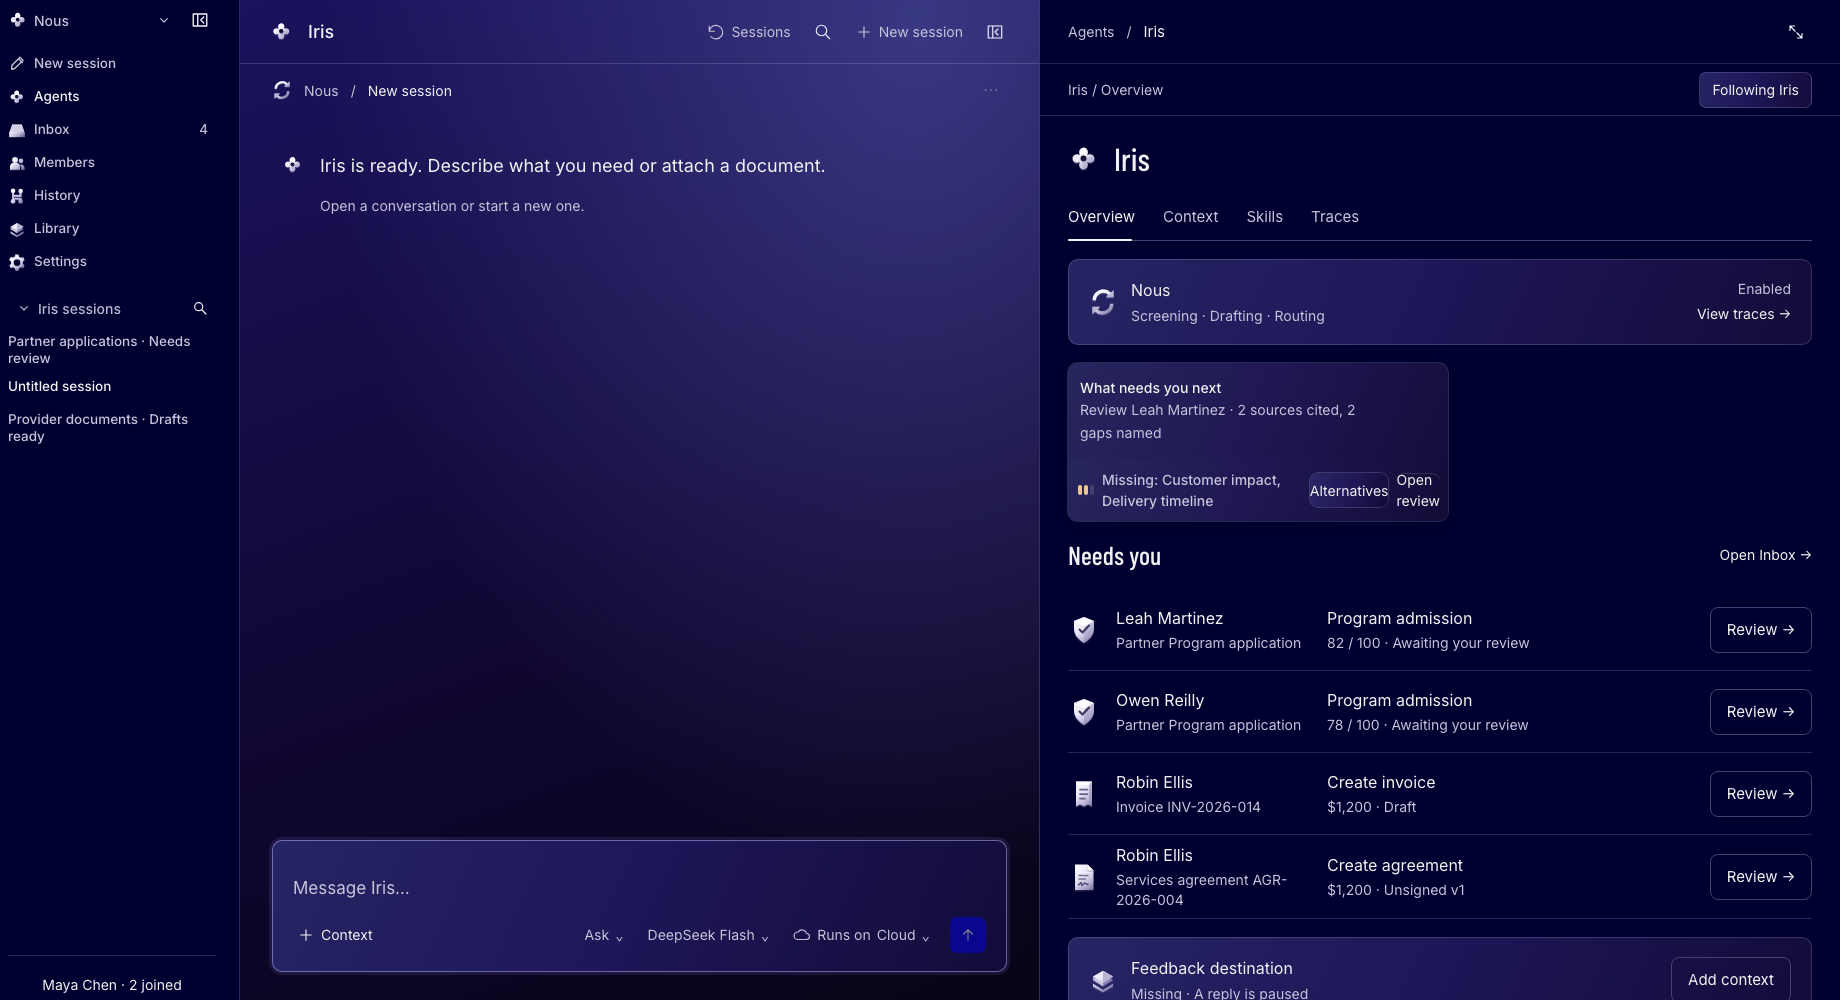
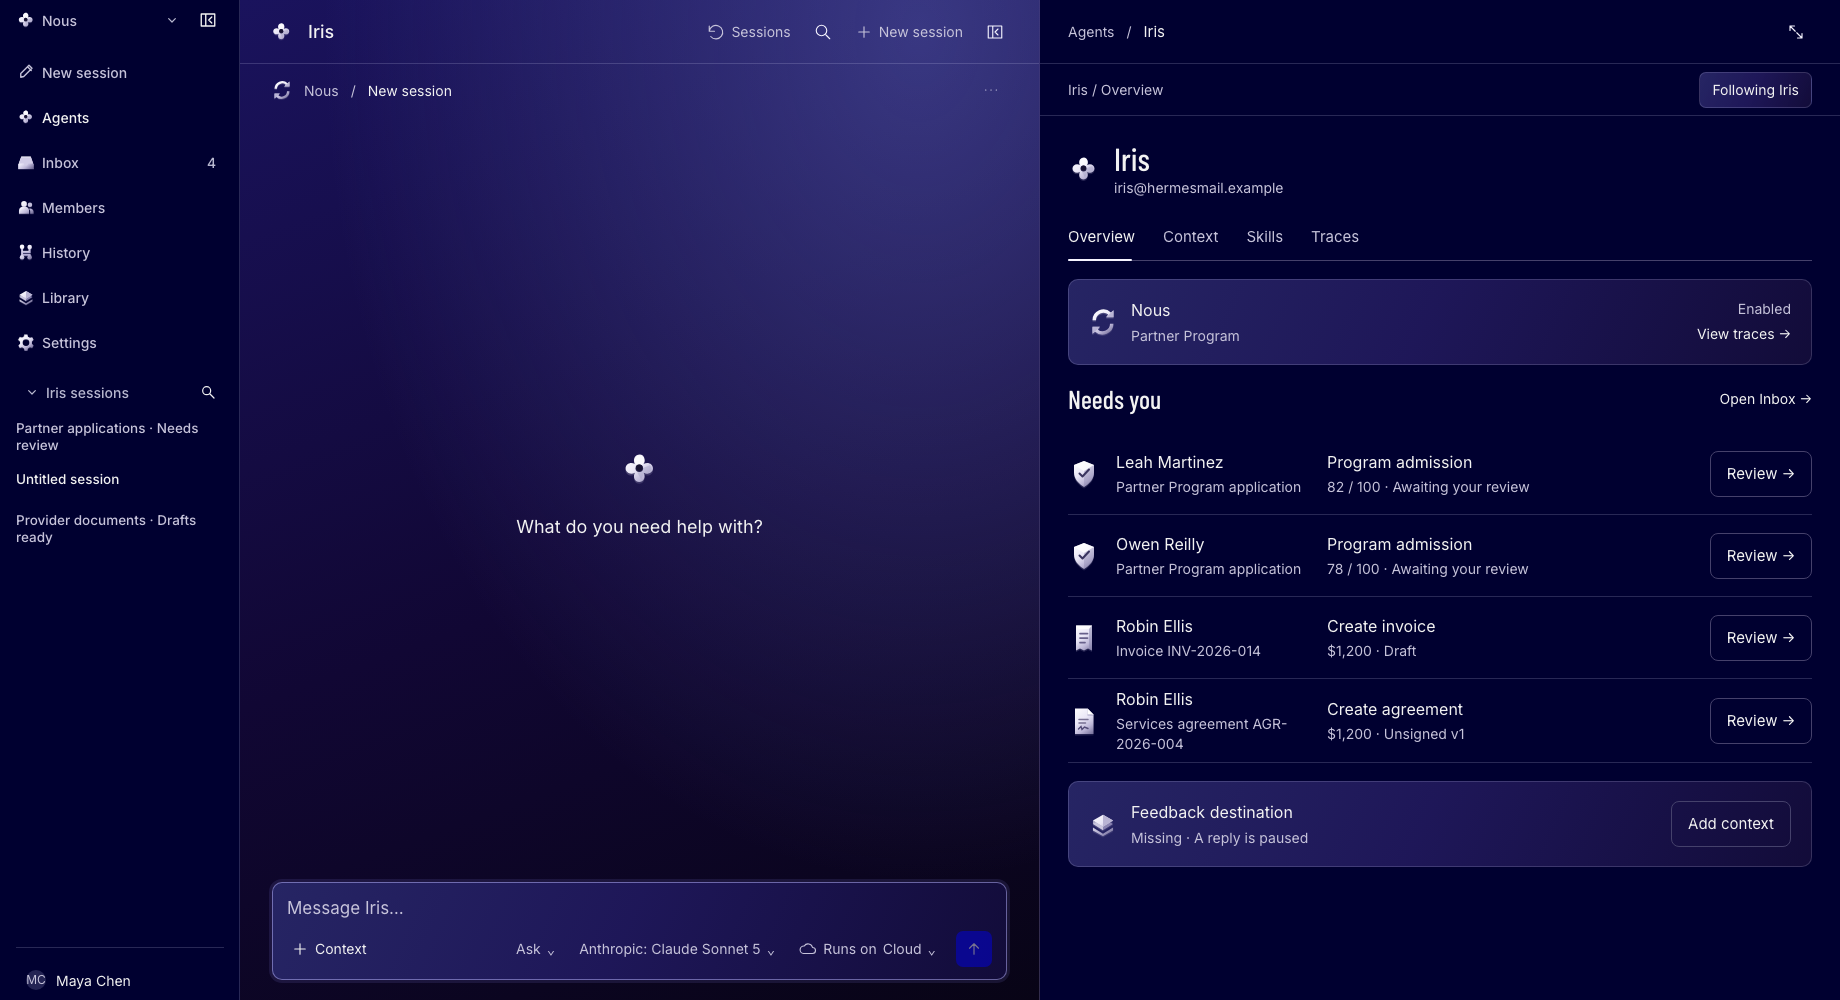
Polish and verify workspace navigation

diff --git a/apps/client/src/app/Sidebar.tsx b/apps/client/src/app/Sidebar.tsx
@@ -36,7 +36,8 @@ export function Sidebar() {
   const nav = useNav();
   const dispatch = useDispatch();
   const [menu, setMenu] = useState(false);
-  const meBtn = useRef<HTMLButtonElement>(null);
+  const accountBtn = useRef<HTMLElement>(null);
+  const accountMarker = useRef<HTMLSpanElement>(null);
   const sidebarRef = useRef<HTMLElement>(null);
   const go = (ref: Ref): void => {
     setMenu(false);
@@ -80,12 +81,26 @@ export function Sidebar() {
     return () => observer.disconnect();
   }, [dispatch, state.ui.navCollapsed]);
 
+  // SidebarNav owns the visible footer button, while this client owns the
+  // account menu. Use a marker inside the public footerIcon slot to recover
+  // that exact button as the popover anchor instead of rendering a second,
+  // hidden account button after a full-height sidebar.
+  useEffect(() => {
+    const button = accountMarker.current?.closest<HTMLButtonElement>('button') ?? null;
+    accountBtn.current = button;
+    if (!button) return;
+    button.setAttribute('aria-label', 'Your account');
+    button.setAttribute('aria-haspopup', 'dialog');
+    button.setAttribute('aria-expanded', String(menu));
+  }, [menu]);
+
   return (
     // `SidebarNav` renders its own <aside> with its own collapse control; this
     // wrapper is the grid cell. It clips during the shared width transition so
     // neither state can paint over the neighboring pane (decision C36).
     <aside ref={sidebarRef} className="sidebar hermes-ui" aria-label="Workspace navigation">
       <SidebarNav
+        className="workspace-sidebar-nav"
         fill
         workspace={{ key: state.workspace.id || 'workspace', name: state.workspace.name || 'Workspace', monogram: (state.workspace.name || 'W').slice(0, 1).toUpperCase() }}
         navItems={navItems}
@@ -96,14 +111,22 @@ export function Sidebar() {
         // workspace menu; a headcount pinned under your own avatar is a number
         // about other people in the one place that is about you (decision C47).
         footerLabel={state.user.name || 'You'}
-        footerIcon={<Avatar person={{ name: state.user.name || 'You' }} size={20} />}
+        footerIcon={
+          <span ref={accountMarker} className="account-trigger-marker" aria-hidden="true">
+            <Avatar person={{ name: state.user.name || 'You' }} size={20} />
+          </span>
+        }
         onNavigate={(key) => {
           const section = SECTIONS.find((item) => item.key === key);
           if (!section) return;
           nav(section.ref);
           if (key === 'inbox') dispatch({ type: 'nav/tab', key: 'inboxTab', value: 'needs-review' });
         }}
-        onPick={(id) => dispatch({ type: 'session/select', id })}
+        onPick={(id) => {
+          dispatch({ type: 'session/select', id });
+          dispatch({ type: 'iris/panel', panel: 'open' });
+          requestComposerFocus();
+        }}
         onNewChat={() => {
           // One control, three effects: reuse-or-create (the adapter's rule),
           // open the panel, and put the cursor in the composer. A New session
@@ -114,59 +137,57 @@ export function Sidebar() {
           void adapter.createSession();
         }}
         onWorkspaceAction={(action) => {
-          if (action === 'settings') go(SETTINGS('Organization'));
-          if (action === 'members') go(MEMBERS);
+          if (action === 'Switch workspace') window.location.assign('/');
+          if (action === 'Workspace settings') go(SETTINGS('Organization'));
+          if (action === 'Invite team members') go(MEMBERS);
         }}
-        onFooterClick={() => setMenu((open) => !open)}
+        onFooterClick={() => {
+          accountBtn.current = accountMarker.current?.closest<HTMLButtonElement>('button') ?? null;
+          setMenu((open) => !open);
+        }}
       />
-      <div className="profile" style={{ position: 'relative' }}>
-        <button ref={meBtn} type="button" className="profile-btn" aria-haspopup="dialog" aria-expanded={menu} aria-label="Your account" onClick={() => setMenu((open) => !open)}>
-          <Avatar person={{ name: state.user.name || 'You' }} />
-          <span className="profile-name">{state.user.name || 'You'}</span>
-        </button>
-        <Popover open={menu} onClose={() => setMenu(false)} anchorRef={meBtn} align="left" above width={280} label="Your account" portal className="menu account-menu">
-          <div className="row account-head">
-            <Avatar person={{ name: state.user.name }} size={36} />
-            <div className="col" style={{ gap: 2, minWidth: 0 }}>
-              <span className="p-title">{state.user.name || 'You'}</span>
-              <span className="p-meta">
-                {state.user.email || state.workspace.name} · {state.user.role === 'admin' ? 'Admin' : 'Member'}
-              </span>
-            </div>
-          </div>
-          <div className="divider" />
-          <MenuItem small icon="mail" onClick={() => go(SETTINGS('Notifications'))}>
-            Notification settings
-          </MenuItem>
-          <MenuItem small icon="key" onClick={() => go(SETTINGS('Provider keys'))}>
-            Provider keys
-          </MenuItem>
-          <MenuItem small icon="shield" onClick={() => go(SETTINGS('Data and privacy'))}>
-            Data and privacy
-          </MenuItem>
-          <div className="row account-toggle">
-            <span className="grow">Reduce motion</span>
-            <Toggle
-              checked={state.ui.reduceMotion}
-              label="Reduce motion"
-              // Client-local, and only client-local. It used to PATCH
-              // `{ reduce_motion }` at the settings route as well, where it
-              // matched no workspace field and was silently discarded; the
-              // route answers 422 for an unknown key now, so the call would be
-              // an error for a preference the server has never stored.
-              onChange={(value) => dispatch({ type: 'ui/set', patch: { reduceMotion: value } })}
-            />
-          </div>
-          {__AUTH_MODE__ === 'fake' && <DevAccountSwitcher />}
-          <div className="divider" />
-          <button type="button" className="menu-item small" onClick={() => window.location.assign(adapter.auth.signInUrl(window.location.href))}>
-            <Icon name="external" />
-            <span className="mi-body">
-              <span>Sign out</span>
+      <Popover open={menu} onClose={() => setMenu(false)} anchorRef={accountBtn} align="left" above width={280} label="Your account" portal className="menu account-menu">
+        <div className="row account-head">
+          <Avatar person={{ name: state.user.name }} size={36} />
+          <div className="col" style={{ gap: 2, minWidth: 0 }}>
+            <span className="p-title">{state.user.name || 'You'}</span>
+            <span className="p-meta">
+              {state.user.email || state.workspace.name} · {state.user.role === 'admin' ? 'Admin' : 'Member'}
             </span>
-          </button>
-        </Popover>
-      </div>
+          </div>
+        </div>
+        <div className="divider" />
+        <MenuItem small icon="mail" onClick={() => go(SETTINGS('Notifications'))}>
+          Notification settings
+        </MenuItem>
+        <MenuItem small icon="key" onClick={() => go(SETTINGS('Provider keys'))}>
+          Provider keys
+        </MenuItem>
+        <MenuItem small icon="shield" onClick={() => go(SETTINGS('Data and privacy'))}>
+          Data and privacy
+        </MenuItem>
+        <div className="row account-toggle">
+          <span className="grow">Reduce motion</span>
+          <Toggle
+            checked={state.ui.reduceMotion}
+            label="Reduce motion"
+            // Client-local, and only client-local. It used to PATCH
+            // `{ reduce_motion }` at the settings route as well, where it
+            // matched no workspace field and was silently discarded; the
+            // route answers 422 for an unknown key now, so the call would be
+            // an error for a preference the server has never stored.
+            onChange={(value) => dispatch({ type: 'ui/set', patch: { reduceMotion: value } })}
+          />
+        </div>
+        {__AUTH_MODE__ === 'fake' && <DevAccountSwitcher />}
+        <div className="divider" />
+        <button type="button" className="menu-item small" onClick={() => window.location.assign(adapter.auth.signInUrl(window.location.href))}>
+          <Icon name="external" />
+          <span className="mi-body">
+            <span>Sign out</span>
+          </span>
+        </button>
+      </Popover>
     </aside>
   );
 }

diff --git a/apps/client/e2e/panel-sidebar.spec.ts b/apps/client/e2e/panel-sidebar.spec.ts
@@ -29,3 +29,107 @@ test('three clicks on New session', async ({ page }) => {
   await sidebar.screenshot({ path: `qa/panel/sidebar-${label}.png` });
   await page.screenshot({ path: `qa/panel/sidebar-${label}-shell.png` });
 });
+
+test('every workspace navigation control has a visible result', async ({ page }) => {
+  await page.setViewportSize({ width: 1840, height: 1000 });
+  await page.goto('/');
+  const sidebar = page.locator('.sidebar');
+  const app = page.getByRole('region', { name: 'Application' });
+  await expect(sidebar.getByRole('button', { name: 'Agents', exact: true })).toBeVisible({ timeout: 20_000 });
+
+  const destinations = [
+    ['Agents', 'Iris'],
+    ['Inbox', 'Inbox'],
+    ['Members', 'Members'],
+    ['History', 'History'],
+    ['Library', 'Library'],
+    ['Settings', 'Settings'],
+  ] as const;
+  for (const [button, heading] of destinations) {
+    await sidebar.getByRole('button', { name: button, exact: true }).click();
+    await expect(app.getByRole('heading', { name: heading, exact: true })).toBeVisible();
+  }
+
+  // The primary targets use one vertical rhythm rather than touching each
+  // other. Their left and right insets are equal inside the expanded rail.
+  const boxes = await sidebar.locator('.sidebar-row[aria-label]').evaluateAll((rows) =>
+    rows.slice(0, 7).map((row) => {
+      const rect = row.getBoundingClientRect();
+      return { left: rect.left, right: rect.right, top: rect.top, bottom: rect.bottom, height: rect.height };
+    }),
+  );
+  expect(boxes).toHaveLength(7);
+  for (const box of boxes) expect(box.height).toBeGreaterThanOrEqual(40);
+  for (let index = 1; index < boxes.length; index += 1) expect(boxes[index]!.top - boxes[index - 1]!.bottom).toBeGreaterThanOrEqual(4);
+
+  await sidebar.getByRole('button', { name: 'Search sessions', exact: true }).click();
+  const search = sidebar.getByRole('textbox', { name: 'Search session history' });
+  await search.fill('Partner');
+  await expect(sidebar.locator('.sidebar-row[title]:not([aria-label])')).toHaveCount(1);
+  await sidebar.getByRole('button', { name: 'Close session search', exact: true }).click();
+  await expect(search).not.toBeVisible();
+
+  // A recent session and New session both reopen Iris when it was hidden.
+  await page.getByRole('button', { name: 'Hide Iris', exact: false }).first().click();
+  await expect(page.locator('.pane-iris')).toHaveCount(0);
+  await sidebar.locator('.sidebar-row[title]:not([aria-label])').first().click();
+  await expect(page.locator('.pane-iris')).toBeVisible();
+  await page.getByRole('button', { name: 'Hide Iris', exact: false }).first().click();
+  await sidebar.getByRole('button', { name: 'New session', exact: true }).click();
+  await expect(page.locator('.pane-iris')).toBeVisible();
+
+  await sidebar.getByRole('button', { name: 'Collapse sidebar', exact: true }).click();
+  await expect(sidebar.locator('[data-sidebar-collapsed="true"]')).toBeVisible();
+  await sidebar.getByRole('button', { name: 'Expand sidebar', exact: true }).click();
+  await expect(sidebar.locator('[data-sidebar-collapsed="false"]')).toBeVisible();
+});
+
+test('workspace and user menus route correctly and align to the left rail', async ({ page }) => {
+  await page.setViewportSize({ width: 1840, height: 1000 });
+  await page.goto('/');
+  const sidebar = page.locator('.sidebar');
+  const app = page.getByRole('region', { name: 'Application' });
+  await expect(sidebar.getByRole('button', { name: 'Agents', exact: true })).toBeVisible({ timeout: 20_000 });
+
+  const workspace = sidebar.locator('[data-workspace-trigger]');
+  await workspace.click();
+  await page.getByRole('button', { name: 'Workspace settings', exact: true }).click();
+  await expect(app.getByRole('tab', { name: 'Organization', exact: true })).toHaveAttribute('aria-selected', 'true');
+  await workspace.click();
+  await page.getByRole('button', { name: 'Invite team members', exact: true }).click();
+  await expect(app.getByRole('heading', { name: 'Members', exact: true })).toBeVisible();
+  await workspace.click();
+  await Promise.all([
+    page.waitForURL((url) => url.pathname === '/' && url.hash === ''),
+    page.getByRole('button', { name: 'Switch workspace', exact: true }).click(),
+  ]);
+  await expect(sidebar.getByRole('button', { name: 'Agents', exact: true })).toBeVisible();
+
+  const account = sidebar.getByRole('button', { name: 'Your account', exact: true });
+  await expect(account).toHaveAttribute('aria-haspopup', 'dialog');
+  expect(await account.evaluate((button) => getComputedStyle(button).justifyContent)).toBe('flex-start');
+  const accountBox = await account.boundingBox();
+  const firstNavBox = await sidebar.getByRole('button', { name: 'Agents', exact: true }).boundingBox();
+  expect(accountBox).not.toBeNull();
+  expect(firstNavBox).not.toBeNull();
+  expect(Math.abs(accountBox!.x - firstNavBox!.x)).toBeLessThanOrEqual(1);
+
+  await account.click();
+  await expect(page.getByRole('dialog', { name: 'Your account' })).toBeVisible();
+  await page.getByRole('menuitem', { name: 'Notification settings', exact: true }).click();
+  await expect(app.getByRole('tab', { name: 'Notifications', exact: true })).toHaveAttribute('aria-selected', 'true');
+  await account.click();
+  await page.getByRole('menuitem', { name: 'Provider keys', exact: true }).click();
+  await expect(app.getByRole('tab', { name: 'Provider keys', exact: true })).toHaveAttribute('aria-selected', 'true');
+  await account.click();
+  await page.getByRole('menuitem', { name: 'Data and privacy', exact: true }).click();
+  await expect(app.getByRole('tab', { name: 'Data and privacy', exact: true })).toHaveAttribute('aria-selected', 'true');
+
+  await account.click();
+  const reduceMotion = page.getByRole('switch', { name: 'Reduce motion', exact: true });
+  const before = await reduceMotion.getAttribute('aria-checked');
+  await reduceMotion.click();
+  await expect(reduceMotion).toHaveAttribute('aria-checked', before === 'true' ? 'false' : 'true');
+  await page.keyboard.press('Escape');
+  await expect(account).toBeFocused();
+});

diff --git a/apps/client/src/styles.css b/apps/client/src/styles.css
@@ -65,14 +65,15 @@ h1, h2, h3, h4, p { margin: 0; }
 .panel-resizer:focus-visible { outline: 2px solid #c6c6ff; outline-offset: 0; border-radius: 3px; }
 body.is-resizing, body.is-resizing * { cursor: col-resize !important; user-select: none !important; }
 
-/* ---------- sidebar session rows ----------
-   The row is one text node — `SidebarNav` renders `label` and nothing else — so
-   the status rides in the label, and the row is allowed two lines rather than
-   truncating the half that changes. A person scanning this list is scanning for
-   "Working", and a row that ellipsises exactly that word is a row that answers
-   the wrong question (decision C35). */
-.sidebar .sidebar-row { height: auto; min-height: 32px; align-items: flex-start; padding-block: 5px; }
-.sidebar .sidebar-row > span { white-space: normal; display: -webkit-box; -webkit-line-clamp: 2; -webkit-box-orient: vertical; overflow: hidden; text-overflow: clip; font-size: 13.5px; line-height: 17px; }
+/* ---------- sidebar rows ----------
+   Primary navigation is a comfortable, centered 40 px target with consistent
+   space between buttons. Session rows retain two lines for their changing
+   status, but the rule is scoped to their copy so it cannot distort the icon
+   span used by primary navigation (decision C35). */
+.sidebar .sidebar-row { margin-block: 2px; }
+.sidebar .sidebar-row[aria-label] { height: 40px; min-height: 40px; align-items: center; padding-block: 0; }
+.sidebar .sidebar-row:not([aria-label]) { height: auto; min-height: 36px; align-items: flex-start; padding-block: 6px; }
+.sidebar .sidebar-row:not([aria-label]) > .sidebar-copy { white-space: normal; display: -webkit-box; -webkit-line-clamp: 2; -webkit-box-orient: vertical; overflow: hidden; text-overflow: clip; font-size: 13.5px; line-height: 17px; }
 
 /* ---------- the app pane at full width ----------
    Collapsing Iris hands the app 1544 px at 1840, and a dashboard at 1544 px is
@@ -691,8 +692,6 @@ html[data-reduce-motion="true"] *, html[data-reduce-motion="true"] *::before, ht
 .share-tag { display: inline-flex; align-items: center; gap: 4px; font-size: 13px; line-height: 18px; color: var(--muted); padding: 2px 8px; border: 1px solid var(--line); border-radius: 6px; margin-left: 4px; }
 .ws-btn { display: flex; align-items: center; gap: 12px; width: 100%; height: 40px; text-align: left; border-radius: 8px; padding: 0 6px; margin-left: -6px; color: inherit; transition: background-color 120ms ease-out; }
 .ws-btn:hover, .ws-btn[aria-expanded="true"] { background: rgba(255,255,255,.05); }
-.profile-btn { display: flex; align-items: center; gap: 12px; width: 100%; border-radius: 8px; padding: 6px; margin-left: -6px; text-align: left; font-size: 14px; color: inherit; transition: background-color 120ms ease-out; }
-.profile-btn:hover, .profile-btn[aria-expanded="true"] { background: rgba(255,255,255,.05); }
 .follow-btn[aria-pressed] { cursor: pointer; transition: border-color 120ms ease-out; }
 .follow-btn[aria-pressed]:hover { border-color: #4a4a80; }
 .dialog-actions .grow { flex: 1; }
@@ -732,7 +731,14 @@ html[data-reduce-motion="true"] .skeleton-row { animation: none; }
 /* The library's components live inside `.hermes-ui`, which carries its own
    token scope; nothing here may leak into it. */
 .hermes-ui { color-scheme: dark; }
-.sidebar.hermes-ui { padding: 0; }
+.sidebar.hermes-ui { padding-inline: 8px; transition: padding-inline var(--dur-layout) var(--ease-out); }
+.sidebar.hermes-ui:has([data-sidebar-collapsed="true"]) { padding-inline: 0; }
+
+/* SidebarNav exposes one footer slot. Make that real trigger the account row:
+   left-aligned like the rest of the navigation, with a full-size target and a
+   predictable inset for the portaled menu anchor. */
+.sidebar button:has(> .account-trigger-marker) { height: 40px; justify-content: flex-start; gap: 10px; padding-inline: 10px; text-align: left; }
+.account-trigger-marker { display: inline-flex; align-items: center; justify-content: center; flex: 0 0 20px; }
 
 /* `HermesMotionProvider` renders its own `.hermes-ui` wrapper, so the height
    chain from `#root` to the shell runs through it. Without this the shell

diff --git a/docs/DECISIONS.md b/docs/DECISIONS.md
@@ -4489,3 +4489,39 @@ small response is still the wrong default.
 **Would change it if.** OpenRouter publishes a versioned snapshot or explicit
 deletion feed, at which point retirement should follow that signal instead of a
 ratio guard.
+
+---
+
+## C50. The visible navigation control owns its action and its menu
+
+**Decided September 15, 2026.** Every left-rail control must produce a visible
+result: primary items open their page, New session and recent sessions open
+Iris, session search opens and closes, and the collapse control can restore the
+expanded rail. Workspace actions use the exact labels emitted by `SidebarNav`:
+Switch workspace opens the root picker, Workspace settings opens Organization,
+and Invite team members opens Members.
+
+The library's visible footer button is the one account-menu trigger. The app
+recovers that button through the public `footerIcon` slot and anchors the
+popover to it; it does not render a second hidden trigger below a full-height
+sidebar. The footer is a left-aligned 40 px row with the same inset and vertical
+rhythm as primary navigation. Expanded rails keep 8 px side gutters, while the
+52 px collapsed rail gives that space back so icons stay centered.
+
+**Why.** The workspace callback previously compared `settings` and `members`
+against full labels, so two menu items silently did nothing. The account menu
+was anchored to a second button clipped below the rail, not the button a person
+clicked. A broad session-row CSS selector also styled primary-navigation icon
+spans as multiline copy. These looked like isolated polish problems but shared
+one cause: behavior and layout were attached to elements other than the visible
+control.
+
+**Evidence.** `panel-sidebar.spec.ts` exercises every page destination,
+workspace action, account shortcut, search, recent selection, New session,
+collapse/expand, reduced-motion toggle and focus restoration. It also measures
+40 px primary targets, at least 4 px between them, and the shared left edge of
+the account and navigation rows.
+
+**Would change it if.** `SidebarNav` exposes a first-class account trigger ref
+or account-menu slot, at which point the marker bridge can be removed without
+changing the visible behavior.

diff --git a/apps/client/README.md b/apps/client/README.md
@@ -214,7 +214,8 @@ e2e/          scenarios.spec.ts   P1–P3, against the mock bundle
               live-panel.spec.ts  N1–N7: the panel's three states and the
                                   sessions list, against the live stack
               panel-screens.spec.ts every page × three panel states × two widths
-              panel-sidebar.spec.ts the sidebar's list, before and after C34
+              panel-sidebar.spec.ts the sidebar's list plus every navigation,
+                                  workspace and account-menu route (C34, C50)
               panel-narrow.spec.ts  900 and 1100 in all three states: the
                                   navigation keeps its own column
               panel-helpers.ts    the assertions the panel suites share
